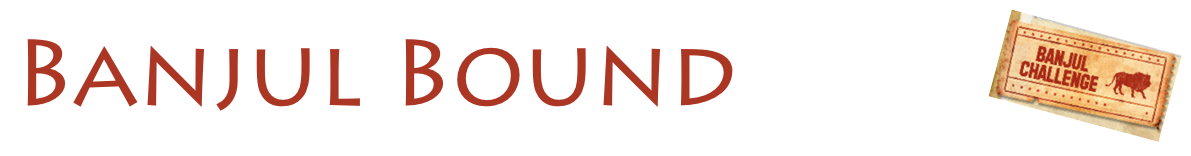
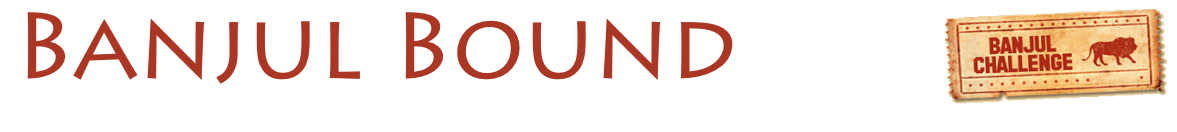
Published gh-pages to GitHub pages.

Changed region(s): [[0.7952, 0.0606, 1.0, 0.9091], [0.0, 0.0909, 0.3059, 0.697], [0.3364, 0.0909, 0.6423, 0.697]]

diff --git a/index.html b/index.html
@@ -16,7 +16,7 @@
         js.src = "//connect.facebook.net/en_GB/all.js#xfbml=1&appId=2550670954";
         fjs.parentNode.insertBefore(js, fjs);
         }(document, 'script', 'facebook-jssdk'));
-    </script> <ul class="visuallyhidden" id="top"> <li> <a accesskey="n" href="#nav" title="Skip to navigation">Skip to navigation</a> </li> <li> <a accesskey="c" href="#page" title="Skip to content">Skip to content</a> </li> </ul> <div class="container" id="content"> <div class="dropup"> <a class="tabnav-closed" href="https://www.jboss.org" id="tab">Red Hat</a> </div> <div class="banner"> <a href="http://www.dakarchallenge.co.uk/challenge/banjul+challenge/">&nbsp;</a> </div> <div class="row-fluid"> <div class="carousel slide" id="myCarousel"> <ol class="carousel-indicators"> <li class="active" data-slide-to="0" data-target="#myCarousel"></li> <li data-slide-to="1" data-target="#myCarousel"></li> <li data-slide-to="2" data-target="#myCarousel"></li> <li data-slide-to="3" data-target="#myCarousel"></li> </ol> <div class="carousel-inner"> <div class="active item"> <img src="images/carousel_img1.png"> </div> <div class="item"> <img src="images/carousel_img2.png"> </div> <div class="item"> <img src="images/carousel_img3.png"> </div> <div class="item"> <img src="images/carousel_img4.png"> </div> </div> <a class="carousel-control left" data-slide="prev" href="#myCarousel">‹</a> <a class="carousel-control right" data-slide="next" href="#myCarousel">›</a> </div> </div> <div class="row-fluid"> <div class="hero-unit"> <h1> <i class="icon-heart"></i> Sponsor Us! <a href="http://www.indiegogo.com/projects/banjulbound" role="button" target="_NEW"> <img class="pull-right" height="60px" src="http://www.indiegogo.com/assets/igg_logo_color_print_black_v.jpg" width="60px"> </a> </h1> Sponsoring us will do wonders to your feel-good factor, your karma and most importantly, your bragging rights. We're not asking for much. Our target is a miniscule <b>&pound; 3,600,</b> over and above our own individual contributions, however the more we can raise for charity the better. We prefer donations through our <b>IndieGogo</b> campaign page. <br> <a class="btn btn-primary pull-right" href="http://www.indiegogo.com/projects/banjulbound" role="button" target="_NEW"> <i class="icon-money"></i> &nbsp;&nbsp;Donate&nbsp;&nbsp; <i class="icon-money"></i> </a> </div> </div> <div class="row-fluid posts"> <div class="span8 well"> <div class="row-fluid"> <div class="span7"> <h2> <i class="icon-rocket"></i> What this is about? </h2> <p> Every year, resourceful and highly spirited adventure-loving kooks all over the world come together and form groups that will go on an epic voyage across Europe and West Africa. In a car worth just a few hundred pounds/euros they will drive from Plymouth, England to Banjul, the Gambia in pursuit of adventure, fortune, glory, raising money for good causes and perhaps have a some fun encounters along the way that may involve lions. If (and that is a big IF) they manage to get across Europe and through the rugged terrain of Africa without being eaten by lions, what is left of the car (after it survives the 3,700 mile/5,920 km journey) is flogged to the highest bidder in an auction in Banjul, with proceeds going to charity. </p> <p> Read more about the challenge <a href="http://www.dakarchallenge.co.uk/challenge/banjul+challenge/">here.</a> </p> <p> <iframe allowfullscreen="true" frameborder="0" height="315" src="//www.youtube.com/embed/ZR7Nl0snkOk" width="730"></iframe> </p> </div> <div class="span5"> <a name="team"></a> <h2> <i class="icon-group"></i> Meet the team! </h2> <p> <p> <a data-toggle="modal" href="#manik" role="button"> <i class="icon-user"></i> Manik Surtani </a> </p> <div aria-hidden="true" aria-labelledby="myModalLabel" class="modal hide fade" id="manik" role="dialog" style="text-align: left;" tabindex="-1"> <div class="modal-header"></div> <button aria-hidden="true" class="close" data-dismiss="modal" type="button">×&nbsp;&nbsp;</button> <h4 id="myModalLabel">&nbsp;&nbsp;About Manik</h4> <div class="modal-body" style="max-height: 500px;"> <img class="pull-left" height="100px" src="http://m.c.lnkd.licdn.com/mpr/pub/image-UT47FzxCG7oxJsJy336htwj-wjsOLsW12OeCUiKTwiaP9J4LUT4CbYUCw1469HqaYpHE/manik-surtani.jpg" style="margin-right: 15px;" width="100px"> <p> Manik is a software engineer and entrepreneur with a passion for adventure and all things Africa. A Sri Lankan by birth, he currently lives in San Francisco, having arrived here via Singapore and London. <br> <br> <a class="twitter-follow-button" data-align="left" data-lang="en" data-show-count="true" href="http://twitter.com/maniksurtani"></a> </p> <button aria-hidden="true" class="btn pull-right" data-dismiss="modal">Close</button> </div> </div> <p> <a data-toggle="modal" href="#rowan" role="button"> <i class="icon-user"></i> Rowan Harvey </a> </p> <div aria-hidden="true" aria-labelledby="myModalLabel" class="modal hide fade" id="rowan" role="dialog" style="text-align: left;" tabindex="-1"> <div class="modal-header"></div> <button aria-hidden="true" class="close" data-dismiss="modal" type="button">×&nbsp;&nbsp;</button> <h4 id="myModalLabel">&nbsp;&nbsp;About Rowan</h4> <div class="modal-body" style="max-height: 500px;"> <img class="pull-left" height="100px" src="http://m.c.lnkd.licdn.com/mpr/mpr/shrink_200_200/p/2/000/117/150/20a242b.jpg" style="margin-right: 15px;" width="100px"> <p> Rowan is a lobbyist for <a href="http://www.actionaid.org" target="_blank">ActionAid,</a> an international charity. <br> <br> <a class="twitter-follow-button" data-align="left" data-lang="en" data-show-count="true" href="http://twitter.com/rowanharvey1"></a> </p> <button aria-hidden="true" class="btn pull-right" data-dismiss="modal">Close</button> </div> </div> <p> <a data-toggle="modal" href="#ted" role="button"> <i class="icon-user"></i> Theodore Georgas </a> </p> <div aria-hidden="true" aria-labelledby="myModalLabel" class="modal hide fade" id="ted" role="dialog" style="text-align: left;" tabindex="-1"> <div class="modal-header"></div> <button aria-hidden="true" class="close" data-dismiss="modal" type="button">×&nbsp;&nbsp;</button> <h4 id="myModalLabel">&nbsp;&nbsp;About Ted</h4> <div class="modal-body" style="max-height: 500px;"> <img class="pull-left" height="100px" src="https://fbcdn-sphotos-c-a.akamaihd.net/hphotos-ak-frc3/1919_71239830504_271_n.jpg" style="margin-right: 15px;" width="100px"> <p> Entrepreneur with a talent for combining IT and business. Theodore (Ted) has worked with Fortune 500 companies and governments in the US, Africa and the Middle East. He currently lives in Greece after having lived in the US and the UK. </p> <button aria-hidden="true" class="btn pull-right" data-dismiss="modal">Close</button> </div> </div> </p> </div> </div> <br> <h2> <i class="icon-trophy"></i> Why are we doing this? </h2> <p> Why did Mallory and Irvine attempt to climb Everest? Why did Amundsen and Scott race to the south pole? Why did Justin Esch and Dave Lefkow go beyond bacon-salt to invent <a href="http://en.wikipedia.org/wiki/Baconnaise" target="_blank">Baconnaise?</a> Because it was a damn cool thing to do and the result was awesome! </p> <p> Okay, more realistically, it's to raise money for <a href="http://www.actionaid.org" target="_blank">ActionAid,</a> our chosen charity. ActionAid focuses on the people that others forget. People in poverty. People who face discrimination. People whose voices are ignored. </p> <p> ActionAid helps people fight for the rights that they are denied. Simple things, like the right to eat. The right to stay on their land. To an education. To have a say in the decisions that shape their lives. </p> </div> <div class="span4 well"> <h2> <i class="icon-map-marker"></i> Our route </h2> <iframe frameborder="0" height="488" marginheight="0" marginwidth="0" scrolling="no" src="http://maps.google.com/maps/ms?ie=UTF8&amp;t=h&amp;msa=0&amp;msid=101230591946158674259.000482153d1f1e74501c0&amp;ll=35.603719,-3.691406&amp;spn=66.98357,49.21875&amp;z=3&amp;output=embed" width="281"></iframe> </div> </div> <br> <div class="row-fluid posts"> <div class="span4 well"> <h2> <i class="icon-comments"></i> Blog posts </h2> <div id="blogfeed"> <div class="text-center"></div> <i class="icon-refresh icon-spin icon-4x"></i> </div> <a href="http://banjulbound.wordpress.com">More news from our blog</a> <script src="https://www.google.com/jsapi" type="text/javascript"></script> <script>
+    </script> <ul class="visuallyhidden" id="top"> <li> <a accesskey="n" href="#nav" title="Skip to navigation">Skip to navigation</a> </li> <li> <a accesskey="c" href="#page" title="Skip to content">Skip to content</a> </li> </ul> <div class="container" id="content"> <div class="dropup"> <a class="tabnav-closed" href="https://www.jboss.org" id="tab">Red Hat</a> </div> <div class="banner"> <a href="http://www.dakarchallenge.co.uk/challenge/banjul+challenge/">&nbsp;</a> </div> <p style="top-margin: 10px;"></p> <div class="row-fluid"> <div class="carousel slide" id="myCarousel" style="max-height: 460px;"> <ol class="carousel-indicators"> <li class="active" data-slide-to="0" data-target="#myCarousel"></li> <li data-slide-to="1" data-target="#myCarousel"></li> <li data-slide-to="2" data-target="#myCarousel"></li> <li data-slide-to="3" data-target="#myCarousel"></li> </ol> <div class="carousel-inner"> <div class="active item"> <img src="images/carousel_img1.png" style="margin-left: auto; margin-right: auto;"> </div> <div class="item"> <img src="images/carousel_img2.png" style="margin-left: auto; margin-right: auto;"> </div> <div class="item"> <img src="images/carousel_img3.png" style="margin-left: auto; margin-right: auto;"> </div> <div class="item"> <img src="images/carousel_img4.png" style="margin-left: auto; margin-right: auto;"> </div> </div> <a class="carousel-control left" data-slide="prev" href="#myCarousel">‹</a> <a class="carousel-control right" data-slide="next" href="#myCarousel">›</a> </div> </div> <div class="row-fluid"> <div class="hero-unit"> <p style="font-size: 1.2em;">In January 2014 three intrepid souls will pit themselves (and a crappy car) against the worst the western Sahara has to offer in the name of charity. And they need your help.</p> <h1> <i class="icon-heart"></i> Sponsor Us! <a href="http://www.indiegogo.com/projects/banjulbound" role="button" target="_NEW"> <img class="pull-right" height="60px" src="http://www.indiegogo.com/assets/igg_logo_color_print_black_v.jpg" width="60px"> </a> </h1> <p style="font-size: 1.2em;"> Sponsoring us will do wonders to your feel-good factor, your karma and most importantly, your bragging rights. The more we can raise for <a href="http://www.actionaid.org/" target="_blank">ActionAid,</a> our chosen charity, the better. We prefer donations through our <b>IndieGogo</b> campaign page. </p> <br> <a class="btn btn-primary pull-right" href="http://www.indiegogo.com/projects/banjulbound" role="button" target="_NEW"> <i class="icon-money"></i> &nbsp;&nbsp;Donate&nbsp;&nbsp; <i class="icon-money"></i> </a> </div> </div> <div class="row-fluid posts"> <div class="span8 well"> <div class="row-fluid"> <div class="span7"> <h2> <i class="icon-rocket"></i> What this is about? </h2> <p> Every year, resourceful and highly spirited adventure-loving kooks all over the world come together and form groups that will go on an epic voyage across Europe and West Africa. In a car worth just a few hundred pounds/euros they will drive from Plymouth, England to Banjul, the Gambia in pursuit of adventure, fortune, glory, raising money for good causes and perhaps have a some fun encounters along the way that may involve lions. If (and that is a big IF) they manage to get across Europe and through the rugged terrain of Africa without being eaten by lions, what is left of the car (after it survives the 3,700 mile/5,920 km journey) is flogged to the highest bidder in an auction in Banjul, with proceeds going to charity. </p> <p> Read more about the challenge <a href="http://www.dakarchallenge.co.uk/challenge/banjul+challenge/">here.</a> </p> <p> <iframe allowfullscreen="true" frameborder="0" height="315" src="//www.youtube.com/embed/ZR7Nl0snkOk" width="730"></iframe> </p> </div> <div class="span5"> <a name="team"></a> <h2> <i class="icon-group"></i> Meet the team! </h2> <p> <p> <a data-toggle="modal" href="#manik" role="button"> <i class="icon-user"></i> Manik Surtani </a> </p> <div aria-hidden="true" aria-labelledby="myModalLabel" class="modal hide fade" id="manik" role="dialog" style="text-align: left;" tabindex="-1"> <div class="modal-header"></div> <button aria-hidden="true" class="close" data-dismiss="modal" type="button">×&nbsp;&nbsp;</button> <h4 id="myModalLabel">&nbsp;&nbsp;About Manik</h4> <div class="modal-body" style="max-height: 500px;"> <img class="pull-left" height="100px" src="http://m.c.lnkd.licdn.com/mpr/pub/image-UT47FzxCG7oxJsJy336htwj-wjsOLsW12OeCUiKTwiaP9J4LUT4CbYUCw1469HqaYpHE/manik-surtani.jpg" style="margin-right: 15px;" width="100px"> <p> Manik is a software engineer and entrepreneur with a passion for adventure and all things Africa. A Sri Lankan by birth, he currently lives in San Francisco, having arrived here via Singapore and London. <br> <br> <a class="twitter-follow-button" data-align="left" data-lang="en" data-show-count="true" href="http://twitter.com/maniksurtani"></a> </p> <button aria-hidden="true" class="btn pull-right" data-dismiss="modal">Close</button> </div> </div> <p> <a data-toggle="modal" href="#rowan" role="button"> <i class="icon-user"></i> Rowan Harvey </a> </p> <div aria-hidden="true" aria-labelledby="myModalLabel" class="modal hide fade" id="rowan" role="dialog" style="text-align: left;" tabindex="-1"> <div class="modal-header"></div> <button aria-hidden="true" class="close" data-dismiss="modal" type="button">×&nbsp;&nbsp;</button> <h4 id="myModalLabel">&nbsp;&nbsp;About Rowan</h4> <div class="modal-body" style="max-height: 500px;"> <img class="pull-left" height="100px" src="http://m.c.lnkd.licdn.com/mpr/mpr/shrink_200_200/p/2/000/117/150/20a242b.jpg" style="margin-right: 15px;" width="100px"> <p> Rowan is a lobbyist for <a href="http://www.actionaid.org" target="_blank">ActionAid,</a> an international charity. <br> <br> <a class="twitter-follow-button" data-align="left" data-lang="en" data-show-count="true" href="http://twitter.com/rowanharvey1"></a> </p> <button aria-hidden="true" class="btn pull-right" data-dismiss="modal">Close</button> </div> </div> <p> <a data-toggle="modal" href="#ted" role="button"> <i class="icon-user"></i> Theodore Georgas </a> </p> <div aria-hidden="true" aria-labelledby="myModalLabel" class="modal hide fade" id="ted" role="dialog" style="text-align: left;" tabindex="-1"> <div class="modal-header"></div> <button aria-hidden="true" class="close" data-dismiss="modal" type="button">×&nbsp;&nbsp;</button> <h4 id="myModalLabel">&nbsp;&nbsp;About Ted</h4> <div class="modal-body" style="max-height: 500px;"> <img class="pull-left" height="100px" src="https://fbcdn-sphotos-c-a.akamaihd.net/hphotos-ak-frc3/1919_71239830504_271_n.jpg" style="margin-right: 15px;" width="100px"> <p> Entrepreneur with a talent for combining IT and business. Theodore (Ted) has worked with Fortune 500 companies and governments in the US, Africa and the Middle East. He currently lives in Greece after having lived in the US and the UK. </p> <button aria-hidden="true" class="btn pull-right" data-dismiss="modal">Close</button> </div> </div> </p> </div> </div> <br> <h2> <i class="icon-trophy"></i> Why are we doing this? </h2> <p> Why did Mallory and Irvine attempt to climb Everest? Why did Amundsen and Scott race to the south pole? Why did Justin Esch and Dave Lefkow go beyond bacon-salt to invent <a href="http://en.wikipedia.org/wiki/Baconnaise" target="_blank">Baconnaise?</a> Because it was a damn cool thing to do and the result was awesome! </p> <p> Okay, more realistically, it's to raise money for <a href="http://www.actionaid.org" target="_blank">ActionAid,</a> our chosen charity. ActionAid focuses on the people that others forget. People in poverty. People who face discrimination. People whose voices are ignored. </p> <p> ActionAid helps people fight for the rights that they are denied. Simple things, like the right to eat. The right to stay on their land. To an education. To have a say in the decisions that shape their lives. </p> </div> <div class="span4 well"> <h2> <i class="icon-map-marker"></i> Our route </h2> Once we get started expect to see a dynamically updating map of where we are, thanks to geotagged tweets and Google Maps. For now though, this is, approximately, what our intended route will be. <iframe frameborder="0" height="488" marginheight="0" marginwidth="0" scrolling="no" src="http://maps.google.com/maps/ms?ie=UTF8&amp;t=h&amp;msa=0&amp;msid=101230591946158674259.000482153d1f1e74501c0&amp;ll=35.603719,-3.691406&amp;spn=66.98357,49.21875&amp;z=3&amp;output=embed" style="margin-top: 10px;" width="281"></iframe> </div> </div> <br> <div class="row-fluid posts"> <div class="span4 well"> <h2> <i class="icon-comments"></i> Blog posts </h2> <div id="blogfeed"> <div class="text-center"></div> <i class="icon-refresh icon-spin icon-4x"></i> </div> <a href="http://banjulbound.wordpress.com">More news from our blog</a> <script src="https://www.google.com/jsapi" type="text/javascript"></script> <script>
             google.load("feeds", "1");
             
             function initialize() {
@@ -51,11 +51,11 @@
               });
             }
             google.setOnLoadCallback(initialize);
-          </script> </div> <div class="span4 well"> <h2> <i class="icon-facebook"></i> Facebook </h2> <div class="fb-like-box" data-colorscheme="light" data-header="false" data-href="http://www.facebook.com/banjulbound" data-show-border="false" data-show-faces="true" data-stream="true"></div> </div> <div class="span4 well"> <h2> <i class="icon-twitter"></i> Tweets </h2> <a class="twitter-follow-button" data-align="right" data-lang="en" data-show-count="false" href="https://twitter.com/banjulbound">Follow @BanjulBound</a> <script type="text/javascript"></script> <script>
+          </script> </div> <div class="span4 well"> <h2> <i class="icon-facebook"></i> Facebook </h2> <div class="fb-like-box" data-colorscheme="light" data-header="false" data-href="http://www.facebook.com/banjulbound" data-show-border="false" data-show-faces="false" data-stream="true"></div> </div> <div class="span4 well"> <h2> <i class="icon-twitter"></i> Tweets </h2> <a class="twitter-follow-button" data-align="right" data-lang="en" data-show-count="false" href="https://twitter.com/banjulbound">Follow @BanjulBound</a> <script type="text/javascript"></script> <script>
             !function(d,s,id){var js,fjs=d.getElementsByTagName(s)[0];if(!d.getElementById(id)){js=d.createElement(s);js.id=id;js.src="//platform.twitter.com/widgets.js";fjs.parentNode.insertBefore(js,fjs);}}(document,"script","twitter-wjs");
           </script> <a class="twitter-timeline" data-chrome="nofooter transparent noheader" data-dnt="true" data-link-color="#336699" data-widget-id="404479027978567680" href="https://twitter.com/BanjulBound">Tweets by @BanjulBound</a> <script type="text/javascript"></script> <script>
             !function(d,s,id){var js,fjs=d.getElementsByTagName(s)[0],p=/^http:/.test(d.location)?'http':'https';if(!d.getElementById(id)){js=d.createElement(s);js.id=id;js.src=p+"://platform.twitter.com/widgets.js";fjs.parentNode.insertBefore(js,fjs);}}(document,"script","twitter-wjs");
-          </script> </div> </div> </div> <footer class="container"> <div class="row-fluid"> <div class="span2 offset1"> <h4>Navigate</h4> <ul> <li> <a href="http://www.dakarchallenge.co.uk/challenge/banjul+challenge/" target="_blank" title="Challenge">The Challenge</a> </li> <li> <a href="#team" title="Team">The Team</a> </li> <li> <a href="http://www.indiegogo.com/projects/banjulbound" target="_blank" title="Sponsorship">Sponsorship</a> </li> </ul> </div> <div class="span2"> <h4>Follow Us</h4> <ul> <li> <a href="http://banjulbound.wordpress.com" target="_blank" title="Blog"> Blog <i class="icon-comments"></i> </a> </li> <li> <a href="http://twitter.com/BanjulBound" target="_blank" title="Twitter"> Twitter <i class="icon-twitter"></i> </a> </li> <li> <a href="https://www.facebook.com/banjulbound" target="_blank" title="Facebook"> Facebook <i class="icon-facebook"></i> </a> </li> </ul> </div> <div class="span2"> <h4>Thanks to</h4> <p>ActionAid</p> <a alt="ActionAid" href="http://www.actionaid.org.uk/donate/rebuild" target="_NEW"> <img src="/images/actionaid.jpg"> </a> </div> </div> <div class="span10"> <p style="margin-top: 5px; font-size: 80%;"> © Copyright 2013 Manik Surtani <br> <i class="icon-fire"></i> Made with <a href="https://github.com/jbossorg/bootstrap-community" style="text-decoration: underline;" target="_NEW">JBoss Community Bootstrap</a> and <a href="http://awestruct.org/" style="text-decoration: underline;" target="_NEW">Awestruct</a> <br> <i class="icon-globe"></i> This website is open source! If you want to improve it, <a href="http://github.com/maniksurtani/banjulbound" style="text-decoration: underline;" target="_NEW">fork the project,</a> and hack on it, then send a pull request. <br> <i class="icon-share"></i> Website released under <a href="http://creativecommons.org/licenses/by/3.0/" style="text-decoration: underline;" target="_NEW">CC BY 3.0.</a> </p> </div> </footer> <span class="backToTop"> <a href="#top">back to top</a> </span> <script src="http://static.jboss.org/theme/js/libs/bootstrap-community/2.3.1.1/bootstrap-community.min.js"></script> <script type="text/javascript">
+          </script> </div> </div> </div> <footer class="container"> <div class="row-fluid"> <div class="span2 offset1"> <h4>Navigate</h4> <ul> <li> <a href="http://www.dakarchallenge.co.uk/challenge/banjul+challenge/" target="_blank" title="Challenge">The Challenge</a> </li> <li> <a href="#team" title="Team">The Team</a> </li> <li> <a href="http://www.indiegogo.com/projects/banjulbound" target="_blank" title="Sponsorship">Sponsorship</a> </li> </ul> </div> <div class="span2"> <h4>Follow Us</h4> <ul> <li> <a href="http://banjulbound.wordpress.com" target="_blank" title="Blog"> Blog <i class="icon-comments"></i> </a> </li> <li> <a href="http://twitter.com/BanjulBound" target="_blank" title="Twitter"> Twitter <i class="icon-twitter"></i> </a> </li> <li> <a href="https://www.facebook.com/banjulbound" target="_blank" title="Facebook"> Facebook <i class="icon-facebook"></i> </a> </li> </ul> </div> <div class="span2"> <h4>Thanks to</h4> <p>ActionAid</p> <a alt="ActionAid" href="http://www.actionaid.org.uk/donate/rebuild" target="_NEW"> <img src="/images/aa.gif"> </a> </div> </div> <div class="span10"> <p style="margin-top: 5px; font-size: 80%;"> © Copyright 2013 Manik Surtani <br> <i class="icon-fire"></i> Made with <a href="https://github.com/jbossorg/bootstrap-community" style="text-decoration: underline;" target="_NEW">JBoss Community Bootstrap</a> and <a href="http://awestruct.org/" style="text-decoration: underline;" target="_NEW">Awestruct</a> <br> <i class="icon-globe"></i> This website is open source! If you want to improve it, <a href="http://github.com/maniksurtani/banjulbound" style="text-decoration: underline;" target="_NEW">fork the project,</a> and hack on it, then send a pull request. <br> <i class="icon-share"></i> Website released under <a href="http://creativecommons.org/licenses/by/3.0/" style="text-decoration: underline;" target="_NEW">CC BY 3.0.</a> </p> </div> </footer> <span class="backToTop"> <a href="#top">back to top</a> </span> <script src="http://static.jboss.org/theme/js/libs/bootstrap-community/2.3.1.1/bootstrap-community.min.js"></script> <script type="text/javascript">
     var _gaq = _gaq || [];
     _gaq.push(['_setAccount','UA-45820362-1']);
     _gaq.push(['_trackPageview']);

diff --git a/map/index.html b/map/index.html
@@ -16,7 +16,7 @@
         js.src = "//connect.facebook.net/en_GB/all.js#xfbml=1&appId=2550670954";
         fjs.parentNode.insertBefore(js, fjs);
         }(document, 'script', 'facebook-jssdk'));
-    </script> <ul class="visuallyhidden" id="top"> <li> <a accesskey="n" href="#nav" title="Skip to navigation">Skip to navigation</a> </li> <li> <a accesskey="c" href="#page" title="Skip to content">Skip to content</a> </li> </ul> <div class="container" id="content"> <div class="dropup"> <a class="tabnav-closed" href="https://www.jboss.org" id="tab">Red Hat</a> </div> <div class="banner"> <a href="http://www.dakarchallenge.co.uk/challenge/banjul+challenge/">&nbsp;</a> </div> <div class="row-fluid"> <div class="hero-unit"> <h1> Test page for geo-tagged tweets </h1> <p> This test page will render a Google Map with real-time tweets from Twitter user <a href="https://twitter.com/RCKILDUFF" target="_blank">@RCKILDUFF.</a> Why did I pick this guy? Because he is one of the few random users I've found who actually geotags his tweets. He probably doesn't intend to, just unaware that it's on. He seems like a certified idiot anyway, judging by the content of his tweets. </p> <p> Needless to say, when we're ready to roll, I'll replace this with our Twitter handle and move the map to the front page. </p> <p> Things to try: <ul> <li>Scrolling around the map</li> <li>Zooming on the map</li> <li>Hover over one of the tweets</li> <li>Click on one of the tweets</li> </ul> </p> <iframe src="http://banjultweets.appspot.com/" style="width: 100%; height: 600px;"></iframe> </div> </div> </div> <footer class="container"> <div class="row-fluid"> <div class="span2 offset1"> <h4>Navigate</h4> <ul> <li> <a href="http://www.dakarchallenge.co.uk/challenge/banjul+challenge/" target="_blank" title="Challenge">The Challenge</a> </li> <li> <a href="#team" title="Team">The Team</a> </li> <li> <a href="http://www.indiegogo.com/projects/banjulbound" target="_blank" title="Sponsorship">Sponsorship</a> </li> </ul> </div> <div class="span2"> <h4>Follow Us</h4> <ul> <li> <a href="http://banjulbound.wordpress.com" target="_blank" title="Blog"> Blog <i class="icon-comments"></i> </a> </li> <li> <a href="http://twitter.com/BanjulBound" target="_blank" title="Twitter"> Twitter <i class="icon-twitter"></i> </a> </li> <li> <a href="https://www.facebook.com/banjulbound" target="_blank" title="Facebook"> Facebook <i class="icon-facebook"></i> </a> </li> </ul> </div> <div class="span2"> <h4>Thanks to</h4> <p>ActionAid</p> <a alt="ActionAid" href="http://www.actionaid.org.uk/donate/rebuild" target="_NEW"> <img src="/images/actionaid.jpg"> </a> </div> </div> <div class="span10"> <p style="margin-top: 5px; font-size: 80%;"> © Copyright 2013 Manik Surtani <br> <i class="icon-fire"></i> Made with <a href="https://github.com/jbossorg/bootstrap-community" style="text-decoration: underline;" target="_NEW">JBoss Community Bootstrap</a> and <a href="http://awestruct.org/" style="text-decoration: underline;" target="_NEW">Awestruct</a> <br> <i class="icon-globe"></i> This website is open source! If you want to improve it, <a href="http://github.com/maniksurtani/banjulbound" style="text-decoration: underline;" target="_NEW">fork the project,</a> and hack on it, then send a pull request. <br> <i class="icon-share"></i> Website released under <a href="http://creativecommons.org/licenses/by/3.0/" style="text-decoration: underline;" target="_NEW">CC BY 3.0.</a> </p> </div> </footer> <span class="backToTop"> <a href="#top">back to top</a> </span> <script src="http://static.jboss.org/theme/js/libs/bootstrap-community/2.3.1.1/bootstrap-community.min.js"></script> <script type="text/javascript">
+    </script> <ul class="visuallyhidden" id="top"> <li> <a accesskey="n" href="#nav" title="Skip to navigation">Skip to navigation</a> </li> <li> <a accesskey="c" href="#page" title="Skip to content">Skip to content</a> </li> </ul> <div class="container" id="content"> <div class="dropup"> <a class="tabnav-closed" href="https://www.jboss.org" id="tab">Red Hat</a> </div> <div class="banner"> <a href="http://www.dakarchallenge.co.uk/challenge/banjul+challenge/">&nbsp;</a> </div> <div class="row-fluid"> <div class="hero-unit"> <h1> Test page for geo-tagged tweets </h1> <p> This test page will render a Google Map with real-time tweets from Twitter user <a href="https://twitter.com/RCKILDUFF" target="_blank">@RCKILDUFF.</a> Why did I pick this guy? Because he is one of the few random users I've found who actually geotags his tweets. He probably doesn't intend to, just unaware that it's on. He seems like a certified idiot anyway, judging by the content of his tweets. </p> <p> Needless to say, when we're ready to roll, I'll replace this with our Twitter handle and move the map to the front page. </p> <p> Things to try: <ul> <li>Scrolling around the map</li> <li>Zooming on the map</li> <li>Hover over one of the tweets</li> <li>Click on one of the tweets</li> </ul> </p> <iframe src="http://banjultweets.appspot.com/" style="width: 100%; height: 600px;"></iframe> </div> </div> </div> <footer class="container"> <div class="row-fluid"> <div class="span2 offset1"> <h4>Navigate</h4> <ul> <li> <a href="http://www.dakarchallenge.co.uk/challenge/banjul+challenge/" target="_blank" title="Challenge">The Challenge</a> </li> <li> <a href="#team" title="Team">The Team</a> </li> <li> <a href="http://www.indiegogo.com/projects/banjulbound" target="_blank" title="Sponsorship">Sponsorship</a> </li> </ul> </div> <div class="span2"> <h4>Follow Us</h4> <ul> <li> <a href="http://banjulbound.wordpress.com" target="_blank" title="Blog"> Blog <i class="icon-comments"></i> </a> </li> <li> <a href="http://twitter.com/BanjulBound" target="_blank" title="Twitter"> Twitter <i class="icon-twitter"></i> </a> </li> <li> <a href="https://www.facebook.com/banjulbound" target="_blank" title="Facebook"> Facebook <i class="icon-facebook"></i> </a> </li> </ul> </div> <div class="span2"> <h4>Thanks to</h4> <p>ActionAid</p> <a alt="ActionAid" href="http://www.actionaid.org.uk/donate/rebuild" target="_NEW"> <img src="/images/aa.gif"> </a> </div> </div> <div class="span10"> <p style="margin-top: 5px; font-size: 80%;"> © Copyright 2013 Manik Surtani <br> <i class="icon-fire"></i> Made with <a href="https://github.com/jbossorg/bootstrap-community" style="text-decoration: underline;" target="_NEW">JBoss Community Bootstrap</a> and <a href="http://awestruct.org/" style="text-decoration: underline;" target="_NEW">Awestruct</a> <br> <i class="icon-globe"></i> This website is open source! If you want to improve it, <a href="http://github.com/maniksurtani/banjulbound" style="text-decoration: underline;" target="_NEW">fork the project,</a> and hack on it, then send a pull request. <br> <i class="icon-share"></i> Website released under <a href="http://creativecommons.org/licenses/by/3.0/" style="text-decoration: underline;" target="_NEW">CC BY 3.0.</a> </p> </div> </footer> <span class="backToTop"> <a href="#top">back to top</a> </span> <script src="http://static.jboss.org/theme/js/libs/bootstrap-community/2.3.1.1/bootstrap-community.min.js"></script> <script type="text/javascript">
     var _gaq = _gaq || [];
     _gaq.push(['_setAccount','UA-45820362-1']);
     _gaq.push(['_trackPageview']);
